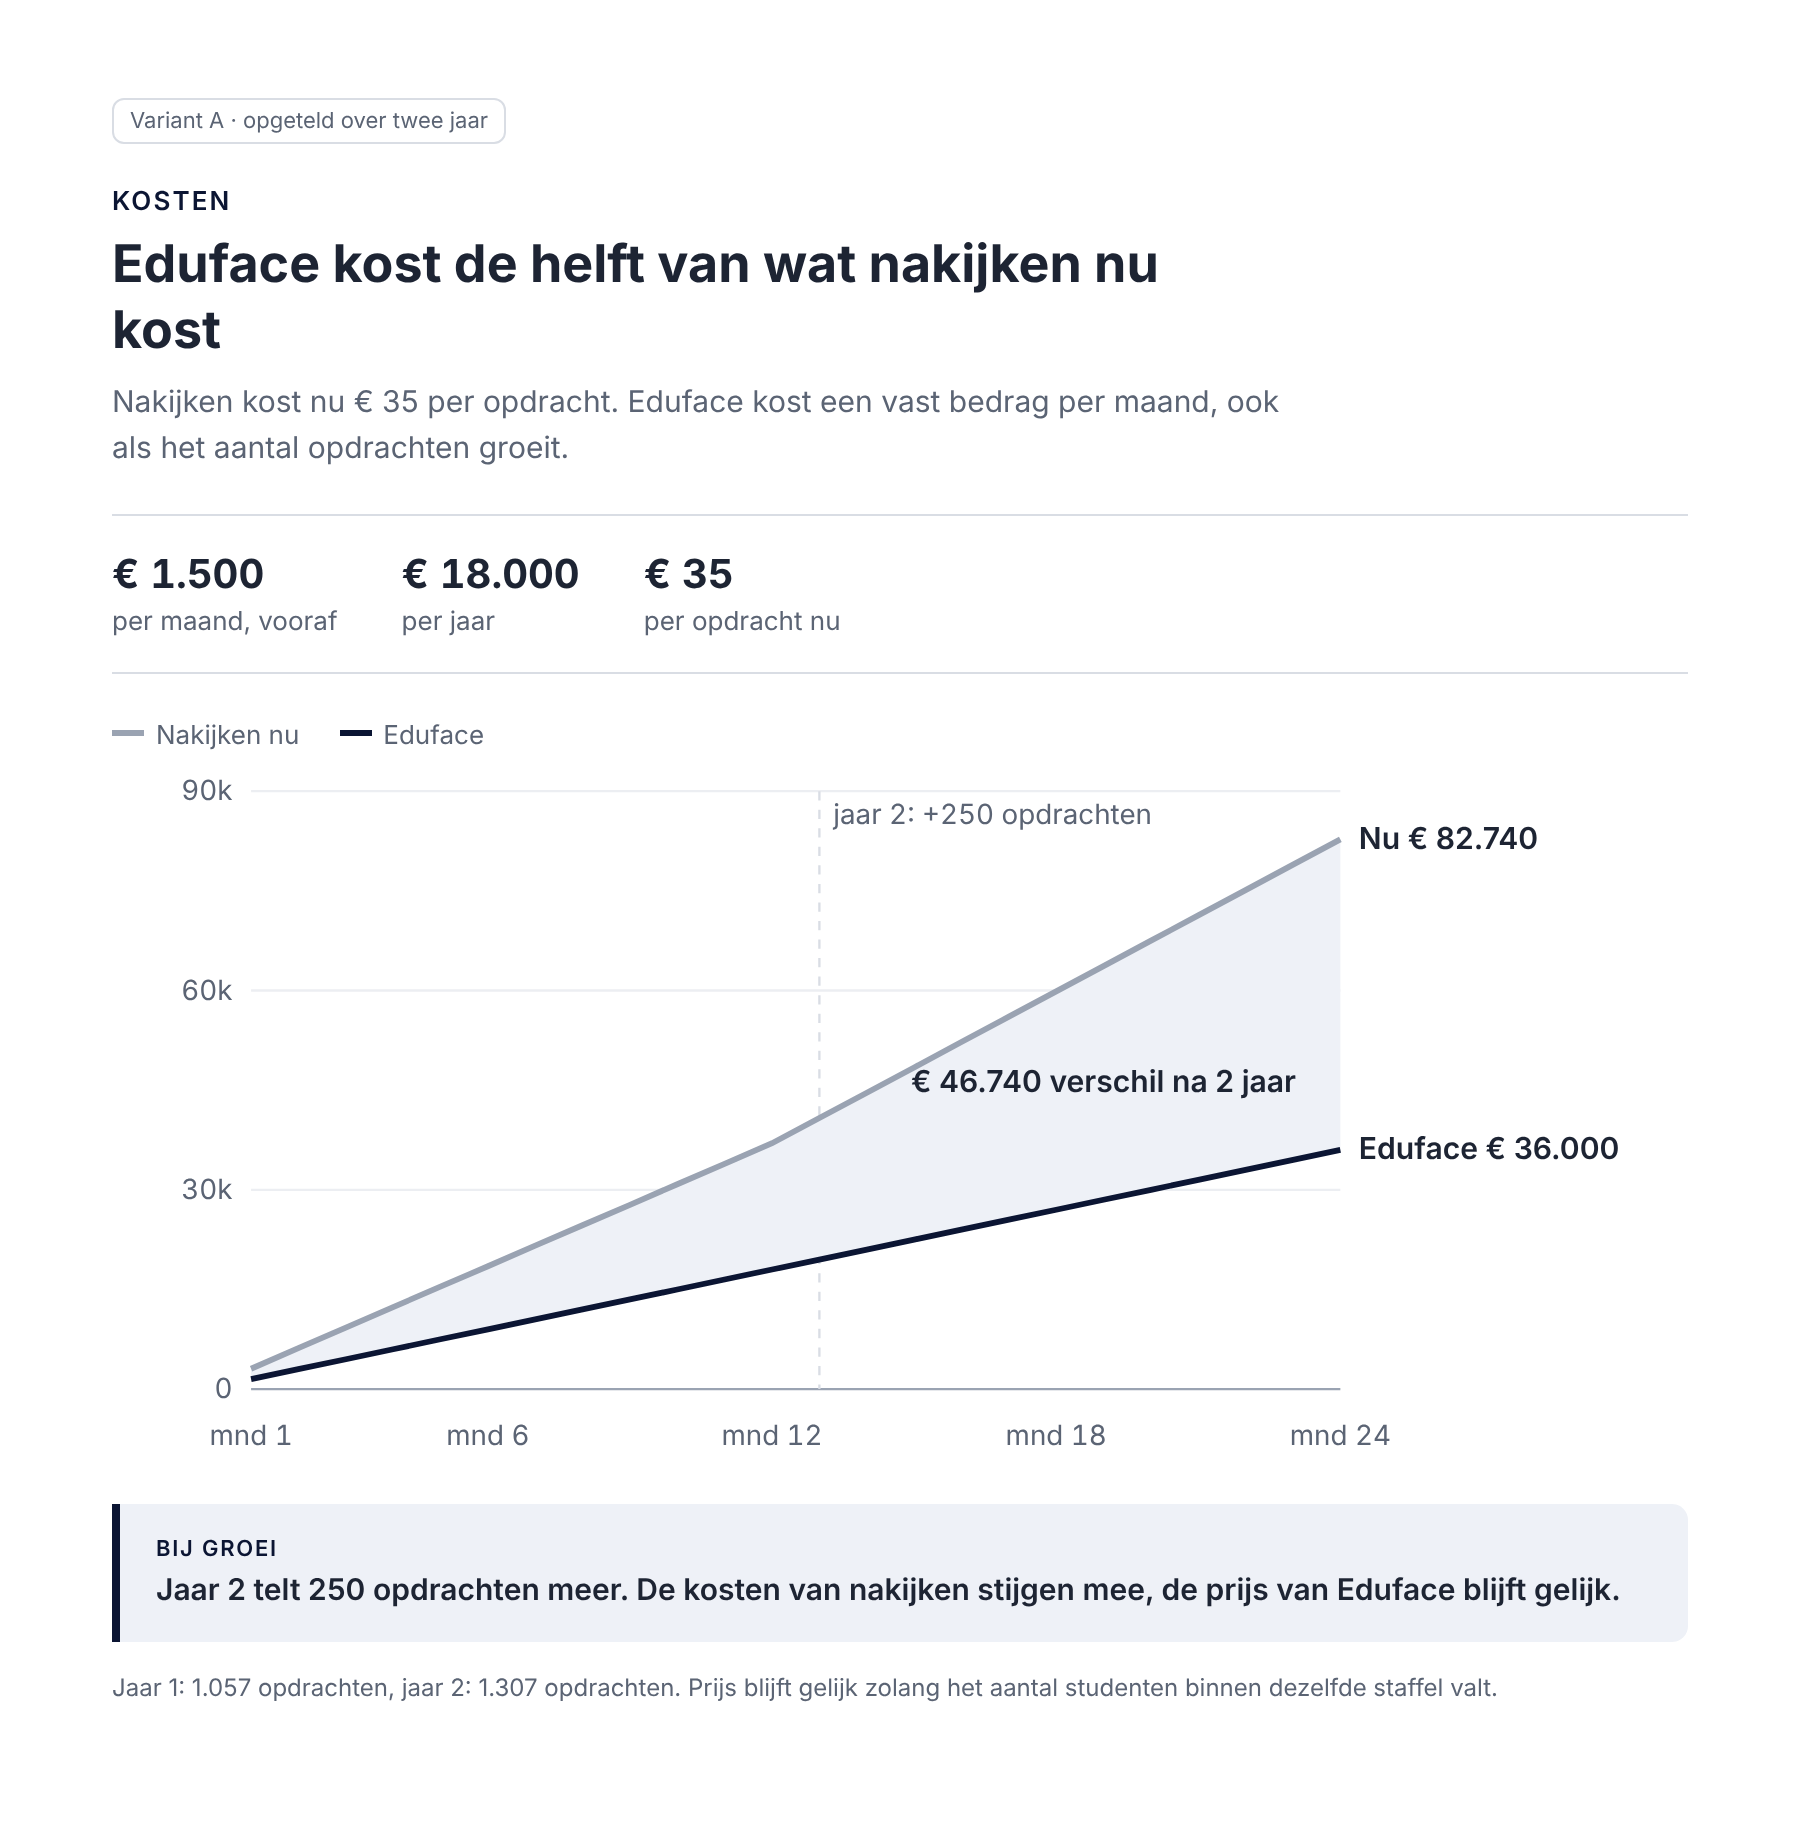
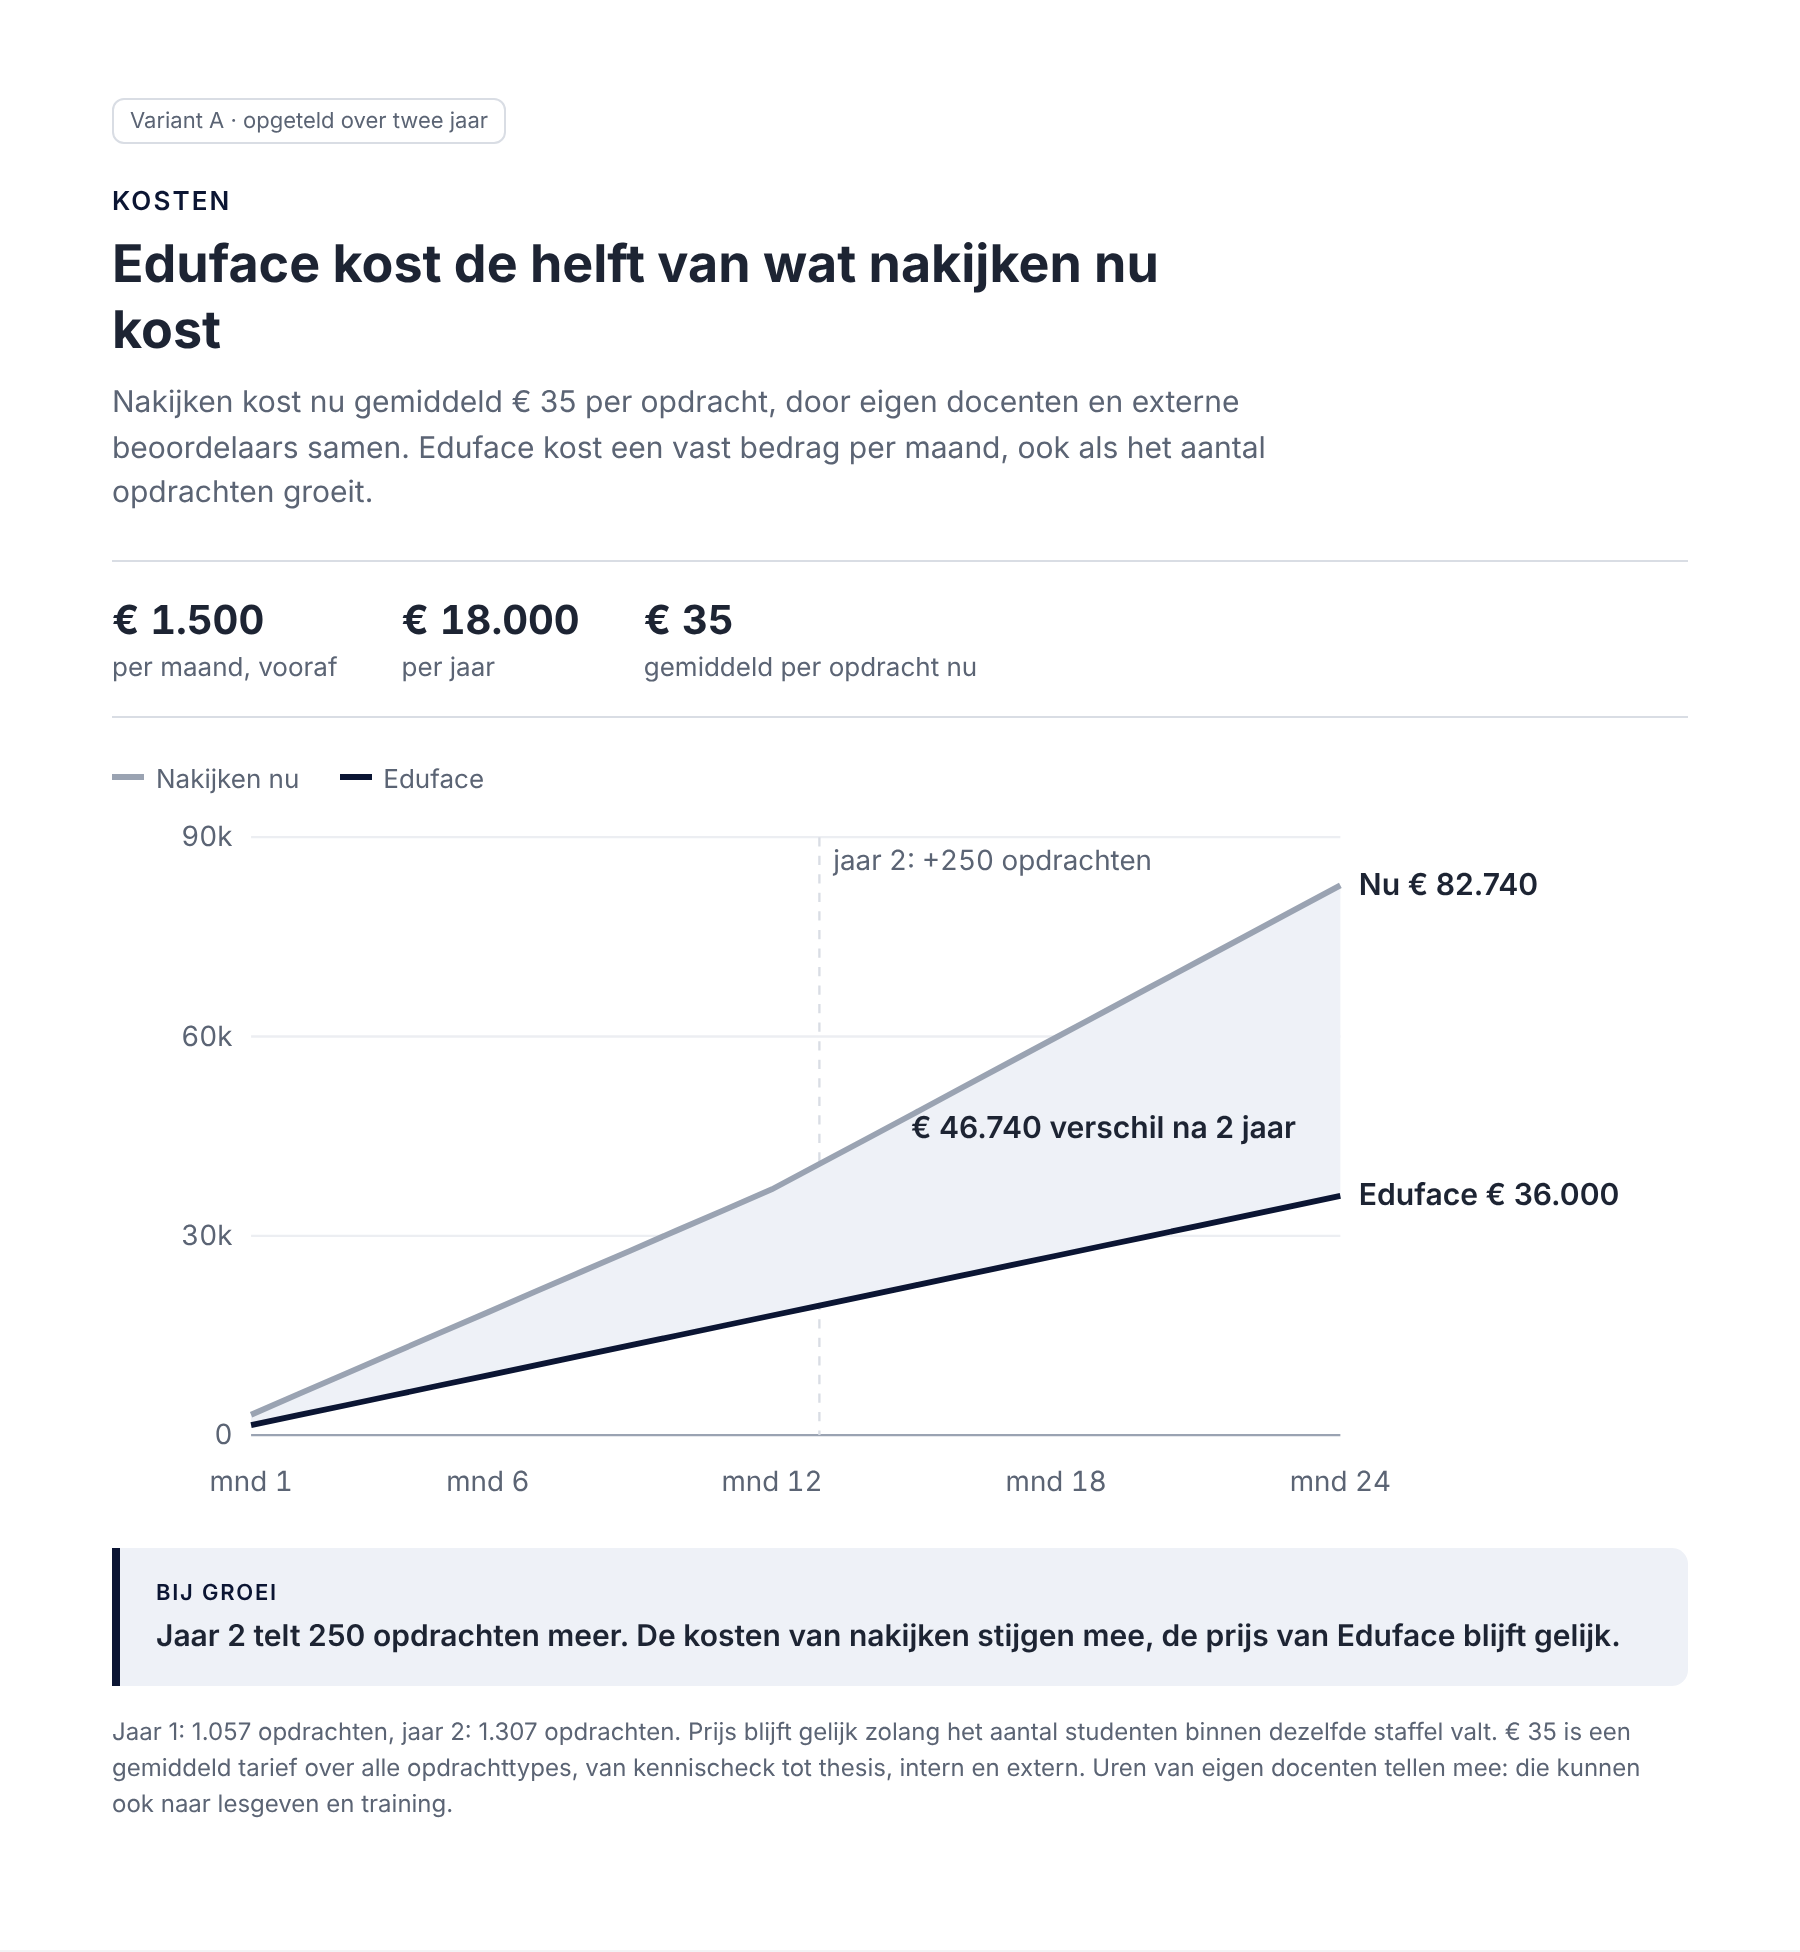
Business case: kostenonderbouwing op geld, gemiddeld tarief intern en extern
Claude-Session: https://claude.ai/code/session_01N8nwrWExSKGjo2t8Td3eSo

diff --git a/GTM/Knowledge/business-case/proef-kosten.html b/GTM/Knowledge/business-case/proef-kosten.html
@@ -45,19 +45,19 @@
   <span class="variant">Variant A · opgeteld over twee jaar</span>
   <h2>Kosten</h2>
   <h1>Eduface kost de helft van wat nakijken nu kost</h1>
-  <p class="lead">Nakijken kost nu € 35 per opdracht. Eduface kost een vast bedrag per maand, ook als het aantal opdrachten groeit.</p>
-  <div class="betaling"><div><b>€ 1.500</b>per maand, vooraf</div><div><b>€ 18.000</b>per jaar</div><div><b>€ 35</b>per opdracht nu</div></div>
+  <p class="lead">Nakijken kost nu gemiddeld € 35 per opdracht, door eigen docenten en externe beoordelaars samen. Eduface kost een vast bedrag per maand, ook als het aantal opdrachten groeit.</p>
+  <div class="betaling"><div><b>€ 1.500</b>per maand, vooraf</div><div><b>€ 18.000</b>per jaar</div><div><b>€ 35</b>gemiddeld per opdracht nu</div></div>
   <div class="legenda"><span><i style="background:var(--nu)"></i>Nakijken nu</span><span><i style="background:var(--klant)"></i>Eduface</span></div>
   <svg id="ga" viewBox="0 0 680 300" role="img" aria-label="Opgetelde kosten over 24 maanden: nakijken nu loopt op tot 82.740 euro, Eduface tot 36.000 euro."></svg>
   <div class="kader"><div class="kop">Bij groei</div><p>Jaar 2 telt 250 opdrachten meer. De kosten van nakijken stijgen mee, de prijs van Eduface blijft gelijk.</p></div>
-  <p class="noot">Jaar 1: 1.057 opdrachten, jaar 2: 1.307 opdrachten. Prijs blijft gelijk zolang het aantal studenten binnen dezelfde staffel valt.</p>
+  <p class="noot">Jaar 1: 1.057 opdrachten, jaar 2: 1.307 opdrachten. Prijs blijft gelijk zolang het aantal studenten binnen dezelfde staffel valt. € 35 is een gemiddeld tarief over alle opdrachttypes, van kennischeck tot thesis, intern en extern. Uren van eigen docenten tellen mee: die kunnen ook naar lesgeven en training.</p>
 </div>
 
 <div class="vel" id="b">
   <span class="variant">Variant B · per jaar en per opdracht</span>
   <h2>Kosten</h2>
   <h1>Eduface kost de helft van wat nakijken nu kost</h1>
-  <p class="lead">Nakijken kost nu € 35 per opdracht. Eduface kost € 1.500 per maand, vooraf betaald, ook als het aantal opdrachten groeit.</p>
+  <p class="lead">Nakijken kost nu gemiddeld € 35 per opdracht, door eigen docenten en externe beoordelaars samen. Eduface kost € 1.500 per maand, vooraf betaald, ook als het aantal opdrachten groeit.</p>
   <div class="legenda"><span><i class="blok" style="background:var(--nu)"></i>Nakijken nu</span><span><i class="blok" style="background:var(--klant)"></i>Eduface</span></div>
   <svg id="gb" viewBox="0 0 680 200" role="img" aria-label="Per jaar: nakijken nu 36.995 en 45.745 euro, Eduface 18.000 euro."></svg>
   <div class="cards">
@@ -74,7 +74,7 @@
       <tr class="totaal"><td>Verschil</td><td class="num">€ 18.995</td><td class="num">€ 27.745</td></tr>
     </tbody>
   </table>
-  <p class="noot">Prijs blijft gelijk zolang het aantal studenten binnen dezelfde staffel valt.</p>
+  <p class="noot">Prijs blijft gelijk zolang het aantal studenten binnen dezelfde staffel valt. € 35 is een gemiddeld tarief over alle opdrachttypes, van kennischeck tot thesis, intern en extern. Uren van eigen docenten tellen mee: die kunnen ook naar lesgeven en training.</p>
 </div>
 
 <script>

diff --git a/GTM/Knowledge/business-case/structuur.md b/GTM/Knowledge/business-case/structuur.md
@@ -45,6 +45,17 @@ Vastgelegd 09-10-2026. Proeven staan in deze map.
 - **Tijdlijn (onderdeel 15):** go-punt, daarna twee fasebalken (go-liveplan, implementatieplan) zonder datums. Testperiode als gestippeld label boven het einde van het go-liveplan. Per fase één zin plus drie punten. Zie `proef-tijdlijn.html`.
 - **Besluitkader:** onder de kerncijfers op pagina 1, tint met een balk in de klantkleur links.
 
+## Kostenonderbouwing
+
+Vastgelegd 27-10-2026, op basis van wat de champion zelf voorstelde.
+
+- **Het gaat om geld, niet om tijd.** Vergelijk de totale kosten van nakijken nu met de prijs van Eduface. Geen besparingspercentage op tijd.
+- **Eén gemiddeld tarief per opdracht,** gewogen over alle opdrachttypes (goedkope kennischecks tot dure theses). De champion berekent dat tarief zelf.
+- **Intern en extern nakijken tellen allebei mee.** Uren van eigen docenten kosten ook geld: die kunnen niet naar lesgeven of training, en dat levert op.
+- **Groei laten zien:** meer opdrachten, gelijke prijs, dus Eduface per opdracht wordt goedkoper. Noot: zolang het studentaantal binnen dezelfde staffel blijft.
+- **Betaling:** per maand, vooraf.
+- Proeven: `proef-kosten.html` (A opgeteld over twee jaar, B per jaar en per opdracht).
+
 ## Toon
 
 Vastgelegd 09-10-2026.
